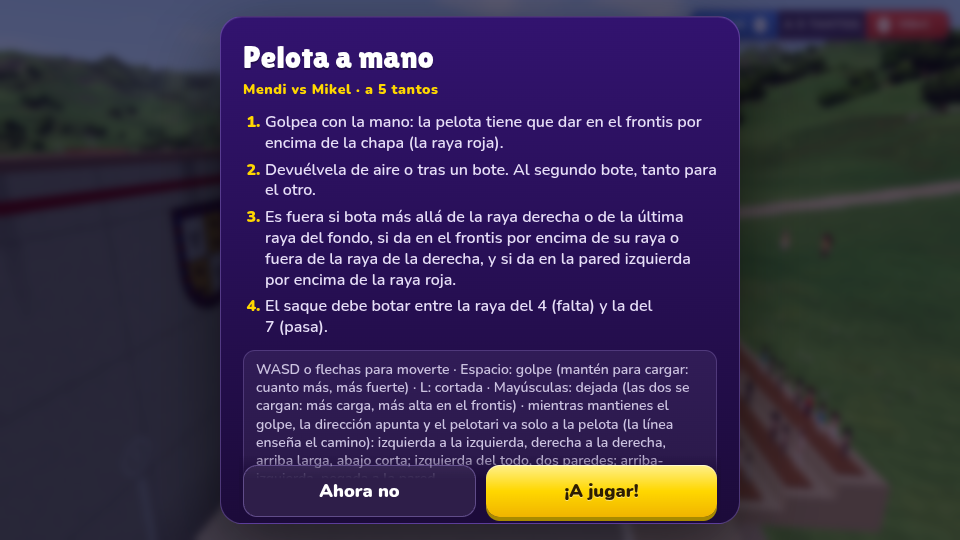
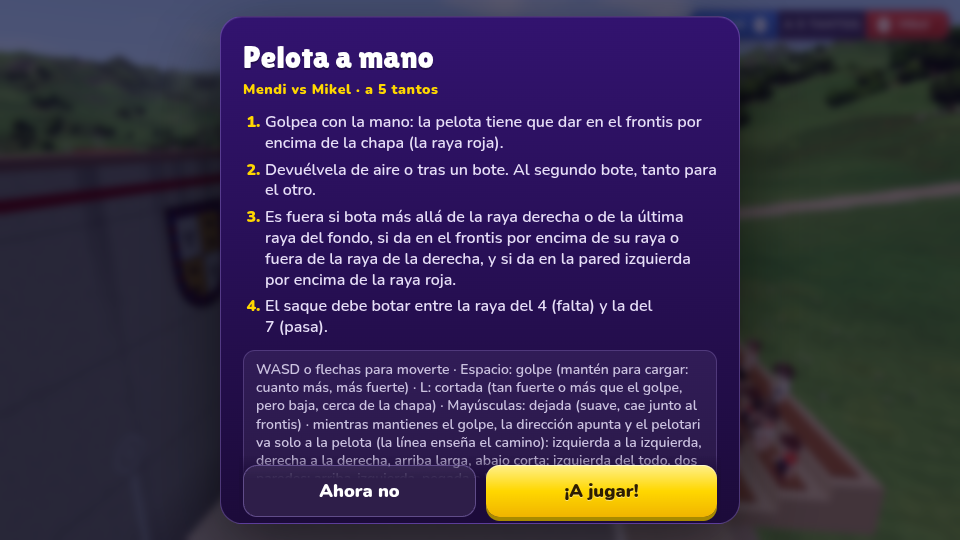
Pelota: público del frontón todo en 3D con textura y un solo estilo, sin haz de luz; cortada a dos paredes; el rival llega a veces a la dejada según el nivel
Claude-Session: https://claude.ai/code/session_01LP3syHb7415C8M5w3wgHaS

Changed region(s): [[0.25, 0.7111, 0.75, 0.8593], [0.7812, 0.7111, 0.8438, 0.8593], [0.8438, 0.7704, 0.875, 0.8]]

diff --git a/src/game/fronton.js b/src/game/fronton.js
@@ -10,7 +10,6 @@ import { clearGrass, clearTrees } from '../world/nature.js';
 import { isEU } from '../i18n.js';
 import { profile } from './profile.js';
 import { QUALITY } from '../util/quality.js';
-import { Crowd } from './crowd.js';
 import { crowd3d } from '../actors/crowd3d.js';
 import { shieldSpec, drawShield } from '../world/heraldry.js';
 import { drawOfficial, officialHeight } from '../world/armas.js';
@@ -153,7 +152,7 @@ export function playPelota(G, fronton, rival, { mode = 'match', target = 5, leve
   return new Promise(res => {
     const P = G.player, rig0 = P.rig, home = { x: rival.pos.x, z: rival.pos.z, h: rival.heading };
     let seated = null, seatedZ = 0, cheerT = 0;
-    let rig = rig0, pel = null, red = null, crowd = null, bf = null, bfWas = false, ended = false; const hidden = [], hiddenR = [];
+    let rig = rig0, pel = null, red = null, bf = null, bfWas = false, ended = false; const hidden = [], hiddenR = [];
     // si algo falla al montar el partido, de vuelta al pueblo con todo como estaba (nunca congelado en la cancha)
     const fail = (e) => {
       console.warn('frontón', e);
@@ -182,16 +181,18 @@ export function playPelota(G, fronton, rival, { mode = 'match', target = 5, leve
     G.pelotaRig = rig;
     rival.frozen = true; rival.talking = 0;
     const flags = { you: {}, rival: {} };
-    // vecinos que se acercan a la grada a ver el partido
-    crowd = G.pelotaCrowd = G.scene ? new Crowd(G, fronton, 7 + ((Math.random() * 4) | 0)) : null;
+    // (el público es uno solo, el de la grada en 3D: antes llegaban además vecinos de otro estilo y se mezclaban dos diseños)
+    if (G.beacon) G.beacon.off = true;   // sin el haz de luz del objetivo sobre el frontón
     // y el público sentado en los bancos de la grada (una sola llamada de dibujo; se va al acabar)
     // (los más cercanos a la cámara, en 3D; con pañuelos que se agitan en cada tanto)
-    try { const C = fronton.court, sp = (C?.standSpots || []).filter(() => Math.random() < (QUALITY === 'low' ? 0.72 : 0.85));
+    // todo el público en 3D con su textura (sin láminas planas a lo lejos): cuántos, según la calidad, repartidos por la grada
+    try { const C = fronton.court, all = C?.standSpots || [], cap = QUALITY === 'low' ? 44 : QUALITY === 'mid' ? 64 : 90;
+      const sp = all.filter(() => Math.random() < Math.min(1, cap / Math.max(1, all.length)));
       // (en coordenadas del mundo: el público 3D elige a los que tiene cerca de la cámara)
       C.group.updateMatrixWorld(true); const yaw = new THREE.Euler().setFromQuaternion(C.group.getWorldQuaternion(new THREE.Quaternion()), 'YXZ').y;
       const wsp = sp.map(([x, y, z, ry]) => { const v = C.group.localToWorld(new THREE.Vector3(x, y, z)); return [v.x, v.y, v.z, ry + yaw]; });
       if (wsp.length) seatedZ = wsp.reduce((a, q) => a + q[2], 0) / wsp.length;
-      if (wsp.length && G.scene) { seated = crowd3d(wsp, 'pelota', 1.36, { sit: true }); G.scene.add(seated); } } catch (e) { console.warn('público del frontón', e); }
+      if (wsp.length && G.scene) { seated = crowd3d(wsp, 'pelota', 1.36, { sit: true, all3d: true }); G.scene.add(seated); } } catch (e) { console.warn('público del frontón', e); }
     const once = (who, key, on, fn) => { if (on && !flags[who][key]) { flags[who][key] = true; fn(); } else if (!on) flags[who][key] = false; };
     const stYou = { v: null }, stRival = { v: null };
     armSwing(rig.char, () => stYou.v, { windOnly: !!pel }); armSwing(red ? red.char : rival.glb, () => stRival.v, { windOnly: !!red });
@@ -216,20 +217,19 @@ export function playPelota(G, fronton, rival, { mode = 'match', target = 5, leve
       you: { obj: P.obj, name: profile().name || (isEU() ? 'Zu' : 'Tú'), animate: animYou },
       rival: { obj: rival.obj, name: rivalName || String(rival.name).split(',')[0], animate: animRival },
       onEnd: (r) => done(r), onExit: (r) => done(r),
-      onEvent: (e) => { if (e.type === 'call' && crowd) (e.final ? crowd.ovation?.() : crowd.point(e.winner === 'you')); if (e.type === 'call' && seated) { seated.cheer(true); cheerT = e.final ? 4.6 : 1.6; } },
+      onEvent: (e) => { if (e.type === 'call' && seated) { seated.cheer(true); cheerT = e.final ? 4.6 : 1.6; } },
     }); } catch (e) { console.warn('frontón', e); done({ win: false, error: true }); return; }   // (si no se monta, de vuelta al pueblo)
-    G.pelotaTick = (dt) => { match.update(dt); crowd?.update(dt); if (seated) { seated.tick(match.t || 0, cheerT > 0 ? 1 : 0.15, seatedZ, G.camera); if (cheerT > 0 && (cheerT -= dt) <= 0) seated.cheer(false); } };
+    G.pelotaTick = (dt) => { match.update(dt); if (seated) { seated.tick(match.t || 0, cheerT > 0 ? 1 : 0.15, seatedZ, G.camera); if (cheerT > 0 && (cheerT -= dt) <= 0) seated.cheer(false); } };
     })().catch(fail);
     function done(r) {
       if (ended) return; ended = true;
-      // el público aplaude el final y vuelve al pueblo (sigue moviéndose con el juego hasta que se va)
-      if (crowd) { crowd.end(!!r.win); G.crowds = (G.crowds || []).filter(c => !c.disposed).concat(crowd); }
       G.pelotaTick = null; G.pelotaMatch = null; G.pelotaRig = null;
       if (seated) { seated.parent?.remove(seated); seated.dispose(); seated = null; }
       if (rig.char) rig.char.post = null; if (rival.glb) rival.glb.post = null;
       rig.setStance?.(null);
       if (pel) { P.obj.remove(pel.char.root); pel.dispose(); for (const c of hidden) P.obj.add(c); }
       if (bf) bf.visible = bfWas;
+      if (G.beacon) G.beacon.off = false;
       if (red) { red.char.post = null; rival.obj.remove(red.char.root); red.dispose(); for (const c of hiddenR) rival.obj.add(c); }
       G.rt?.boost?.(false);
       P.rig = rig0; P.frozen = false; G.mode = 'play'; G.ui.hudVisible?.(true); G.perro?.release?.();

diff --git a/src/actors/crowd3d.js b/src/actors/crowd3d.js
@@ -64,8 +64,17 @@ function bakeMesh(o) {
   }
   const g = new THREE.BufferGeometry();
   g.setAttribute('position', new THREE.BufferAttribute(pos, 3)); g.setAttribute('normal', new THREE.BufferAttribute(nor, 3)); g.setAttribute('color', new THREE.BufferAttribute(col, 3));
+  if (UV) g.setAttribute('uv', UV.clone());
   g.setIndex(geo.index ? geo.index.clone() : [...Array(n).keys()]);
   return g;
+}
+// con textura (el público del frontón, todo en 3D): la piel, la cara y la ropa con el mismo detalle que los jugadores,
+// y la misma luz propia que los personajes de Meshy. Una por figura (cada una trae su textura)
+const texMats = new Map();
+function texMat(map) {
+  if (!map) return MAT;
+  if (!texMats.has(map)) { const m = new THREE.MeshStandardMaterial({ map, roughness: 0.82, emissive: 0xffffff, emissiveMap: map, emissiveIntensity: 0.38 }); texMats.set(map, m); }
+  return texMats.get(map);
 }
 const shown = (o) => { for (let p = o; p; p = p.parent) if (!p.visible) return false; return true; };
 
@@ -83,8 +92,8 @@ function bakeSet(set, sit) {
         if (r === 1) c.playOnce?.('Celebrate', 1); c.update(r === 1 ? 0.45 : 0.3);
         if (r === 0 && sit) sitPose(c.root);
         c.root.rotation.y = (f % 3 - 1) * 0.12; c.root.updateMatrixWorld(true);
-        const parts = []; c.root.traverse(o => { if (o.isMesh && !o.userData.outline && shown(o)) parts.push(bakeMesh(o)); });
-        const g = mergeGeometries(parts); parts.forEach(p => p.dispose()); g.computeBoundingSphere();
+        const parts = []; let map = null; c.root.traverse(o => { if (o.isMesh && !o.userData.outline && shown(o)) { parts.push(bakeMesh(o)); map ||= [].concat(o.material)[0].map || null; } });
+        const g = mergeGeometries(parts); parts.forEach(p => p.dispose()); g.computeBoundingSphere(); g.userData.map = map;
         poses.push(g); c.dispose();
       }
       out.push(poses);
@@ -99,7 +108,7 @@ function bakeSet(set, sit) {
  * Público: spots = [[x, y, z, ry], …] (y = pies). Devuelve un grupo con .tick(t, ánimo, zFoco, cámara) y .cheer(on),
  * igual que las láminas: de cerca, figuras 3D (que saltan, saludan y celebran); de lejos, láminas.
  */
-export function crowd3d(spots, set = 'futbol', height = 1.45, { sit = false } = {}) {
+export function crowd3d(spots, set = 'futbol', height = 1.45, { sit = false, all3d = false } = {}) {
   const n = spots.length, figs = new Uint8Array(n);
   for (let i = 0; i < n; i++) figs[i] = Math.floor(Math.random() * FIGS);
   const group = new THREE.Group(), sprites = crowdMesh(spots, set, height, figs, sit);
@@ -109,7 +118,9 @@ export function crowd3d(spots, set = 'futbol', height = 1.45, { sit = false } = 
   // la ola (en el estadio): cada cierto rato da la vuelta a la grada; quien está en la cresta se levanta y alza los brazos
   const olaOn = set === 'futbol'; let olaA = -99;
   // (los personajes nuevos tienen más detalle: en el móvil, menos en 3D a la vez)
-  const Q = QUALITY, K = Q === 'low' ? 18 : Q === 'mid' ? 40 : 80, R = Q === 'low' ? 13 : Q === 'mid' ? 20 : 28;
+  // (all3d: todos en 3D con su textura y sin láminas; quien llama limita cuántos son)
+  const Q = QUALITY, K = all3d ? n : Q === 'low' ? 18 : Q === 'mid' ? 40 : 80, R = all3d ? 1e4 : Q === 'low' ? 13 : Q === 'mid' ? 20 : 28;
+  if (all3d) sprites.visible = false;
   const TT = sprites.geometry.attributes.aTint.array, tc = new THREE.Color();   // (de cerca, el mismo tono que en la lámina)
   const A = sprites.geometry.attributes.aAnim.array, C = sprites.geometry.attributes.aCell.array, IM = sprites.instanceMatrix, orig = IM.array.slice();
   const near = new Int32Array(K); let nNear = 0, meshes = null, cheer = 0, pick = 0;
@@ -117,7 +128,7 @@ export function crowd3d(spots, set = 'futbol', height = 1.45, { sit = false } = 
   const rot = new Float32Array(n), sc = new Float32Array(n);
   for (let i = 0; i < n; i++) { rot[i] = spots[i][3] + (Math.random() - 0.5) * 0.3; sc[i] = (0.92 + Math.random() * 0.16) * height / 1.5; }
   bakeSet(set, sit).then(G => {
-    meshes = G.map(poses => poses.map(g => { const im = new THREE.InstancedMesh(g, MAT, K); im.setColorAt(0, new THREE.Color(1, 1, 1)); im.count = 0; im.frustumCulled = false; group.add(im); return im; }));
+    meshes = G.map(poses => poses.map(g => { const im = new THREE.InstancedMesh(g, all3d ? texMat(g.userData.map) : MAT, K); im.setColorAt(0, new THREE.Color(1, 1, 1)); im.count = 0; im.frustumCulled = false; group.add(im); return im; }));
   }).catch(err => console.warn('público 3D', err));
   const cam = new THREE.Vector3(), frustum = new THREE.Frustum(), pm = new THREE.Matrix4(), sph = new THREE.Sphere(new THREE.Vector3(), 1.2);
   // elige los K espectadores más cercanos a la cámara (dentro de R) que se ven, para dibujarlos en 3D (los que quedan
@@ -157,7 +168,8 @@ export function crowd3d(spots, set = 'futbol', height = 1.45, { sit = false } = 
       const pose = Math.max((C[i * 2 + 1] + cheer) % 2, wave), im = meshes[figs[i] % meshes.length][pose];
       const jump = A[i * 3] * ex * Math.abs(Math.sin(t * 5.5 + A[i * 3 + 1])) + ola * 0.5;
       m4.compose(v.set(s[0], s[1] + jump, s[2]), q.setFromEuler(e.set(0, rot[i], 0)), s3.setScalar(sc[i]));
-      im.setColorAt(im.count, tc.setRGB(TT[i * 3], TT[i * 3 + 1], TT[i * 3 + 2])); im.setMatrixAt(im.count++, m4);
+      if (all3d) { const l = 0.9 + 0.1 * Math.abs(Math.sin(i * 12.9898)); tc.setRGB(l, l, l); } else tc.setRGB(TT[i * 3], TT[i * 3 + 1], TT[i * 3 + 2]);
+      im.setColorAt(im.count, tc); im.setMatrixAt(im.count++, m4);
     }
     for (const fig of meshes) for (const im of fig) if (im.count) { im.instanceMatrix.needsUpdate = true; if (im.instanceColor) im.instanceColor.needsUpdate = true; }
   };

diff --git a/src/pelota/game.js b/src/pelota/game.js
@@ -86,7 +86,7 @@ export class PelotaGame {
       if (R.serve && R.bounces < 1) return false;           // el saque no se puede devolver de aire
     } else return false;
     const d = Math.hypot(b.x - pl.x, b.z - pl.z);
-    return d < reach && b.y > 0.15 && b.y < 2.2;
+    return d < reach && b.y > 0.1 && b.y < 2.2;   // (una dejada bota muy baja: se recoge casi a ras de suelo)
   }
   quality(who, swingElapsed) {
     const b = this.ball.p, pl = this.players[who];
@@ -128,7 +128,14 @@ export class PelotaGame {
       const speed = 27 + q * 5 + pow * 12;
       const tx = clamp(aim.x * 2.8 + gauss(rnd) * err * 1.1, -4.2, 4.6);
       const ty = cutHeight(pow, aim.y) + gauss(rnd) * err * 0.3;
-      v = aimVelocity(p, tx, ty, Math.max(0.2, p.z / speed));
+      // a dos paredes: con el joystick bien a la izquierda, pega primero en la pared izquierda y después bajo en el
+      // frontis, y sale cruzada hacia la derecha, rasa y rápida (como la dos paredes del golpe, pero cortada)
+      if (rawX < -0.72 && !serve) {
+        const ang = clamp((-rawX - 0.72) / 0.22, 0, 1), fz = clamp(0.6 - ang * 0.4 + gauss(rnd) * err * 0.06, 0.15, 0.8);
+        const r = solveTwoWalls(p, speed, clamp(9 + pow * 5 + aim.y, 7, 15), [fz, fz - 0.08, fz + 0.08, fz + 0.16], { low: 5, maxFront: ty + 0.9 });
+        if (r) { v = r.v; sub = 'cortDos'; }
+      }
+      if (!v) v = aimVelocity(p, tx, ty, Math.max(0.2, p.z / speed));
     } else {
       // el joystick manda: de lado (x) dónde cae a lo ancho y de arriba abajo (y) lo largo; el error solo depende de lo
       // bien que se golpee (antes cada golpe tenía mucho azar y no se notaba hacia dónde se apuntaba)
@@ -264,7 +271,8 @@ export class PelotaGame {
       const bounces = R.front ? R.bounces + s.bounces : s.bounces;
       if (bounces > 1) break;
       if (R.serve && bounces < 1) continue;
-      if (s.y < 0.35 || s.y > 1.5 || s.x > COURT.W / 2 + 1.5 || s.z > COURT.L + 1.5 || s.z < 1.5) continue;
+      // (tras el bote de una dejada la pelota apenas sube un palmo: antes se pedían 35 cm y no había dónde ir a por ella)
+      if (s.y < 0.14 || s.y > 1.5 || s.x > COURT.W / 2 + 1.5 || s.z > COURT.L + 1.5 || s.z < 1.5) continue;
       const need = Math.hypot(s.x - pl.x, s.z - pl.z) / speed + react, have = s.t / this.tempo;
       const c = { x: s.x, z: s.z + 0.25, t: have };
       if (need <= have) return c;
@@ -306,10 +314,11 @@ export class PelotaGame {
   }
   driveAI(who, dt) {
     const pl = this.players[who], lv = who === 'rival' ? this.lvl.rival : { speed: 5.4, react: 0.25, error: 0.12 };
-    let tx = pl.x, tz = pl.z;
+    let tx = pl.x, tz = pl.z, sprint = 1;
     if (this.phase === 'rally' && this.rally.turn === who) {
-      const c = this.interceptFor(who, lv.speed, lv.react);
-      if (c) { tx = c.x; tz = c.z; }
+      // a una pelota corta (la dejada) se sale en arrancada, como un pelotari de verdad: más rápido que en el peloteo
+      const dash = lv.dash ?? 1, c = this.interceptFor(who, lv.speed * dash, lv.react);
+      if (c) { tx = c.x; tz = c.z; if (c.z < 8) sprint = dash; }
       if (this.hittable(who)) {
         const bad = this.rnd() < (this.mode === 'rally' && who === 'rival' ? 0.03 : lv.error);
         const q = bad ? 0.1 + this.rnd() * 0.2 : 0.55 + this.rnd() * 0.4;
@@ -325,7 +334,7 @@ export class PelotaGame {
         const s = this.aiShot(who); return this.strike(who, 0.6 + this.rnd() * 0.35, s.aim, false);
       }
     }
-    this.moveTo(pl, tx, tz, lv.speed, dt);
+    this.moveTo(pl, tx, tz, lv.speed * sprint, dt);
   }
   moveTo(pl, tx, tz, speed, dt) {
     const dx = tx - pl.x, dz = tz - pl.z, d = Math.hypot(dx, dz);

diff --git a/src/pelota/rules.js b/src/pelota/rules.js
@@ -33,9 +33,9 @@ export const PHYS = {
 
 // Niveles: ritmo del partido (cámara lenta), ayuda al jugador y fuerza del rival
 export const LEVELS = {
-  facil: { tempo: 0.5, reach: 1.85, assist: 1.8, rival: { speed: 4.8, react: 0.36, error: 0.12, smart: 0.35 } },
-  normal: { tempo: 0.58, reach: 1.65, assist: 1.0, rival: { speed: 5.5, react: 0.25, error: 0.065, smart: 0.6 } },
-  dificil: { tempo: 0.68, reach: 1.4, assist: 0.35, rival: { speed: 6.2, react: 0.17, error: 0.03, smart: 0.85 } },
+  facil: { tempo: 0.5, reach: 1.85, assist: 1.8, rival: { speed: 4.8, react: 0.36, error: 0.12, smart: 0.35, dash: 0.93 } },
+  normal: { tempo: 0.58, reach: 1.65, assist: 1.0, rival: { speed: 5.5, react: 0.25, error: 0.065, smart: 0.6, dash: 1.0 } },
+  dificil: { tempo: 0.68, reach: 1.4, assist: 0.35, rival: { speed: 6.2, react: 0.17, error: 0.03, smart: 0.85, dash: 1.12 } },
 };
 
 const EU_NUM = ['hutsa', 'bat', 'bi', 'hiru', 'lau', 'bost', 'sei', 'zazpi', 'zortzi', 'bederatzi', 'hamar', 'hamaika', 'hamabi', 'hamahiru', 'hamalau', 'hamabost', 'hamasei', 'hamazazpi', 'hamazortzi', 'hemeretzi', 'hogei', 'hogeita bat', 'hogeita bi'];
@@ -85,7 +85,7 @@ export const TEXT = {
       tanto: ['¡Tanto!', ''],
     },
     quality: { perfect: '¡Perfecto!', good: '¡Bien!', ok: 'Justo', late: 'Tarde', whiff: '¡Al aire!' },
-    shots: { dejada: 'Dejada', cortada: 'Cortada', pared: 'A la pared', dosparedes: 'Dos paredes', dpCorta: 'Dos paredes corta', dpCruzada: 'Dos paredes cruzada', dpLarga: 'Dos paredes larga', dpPegada: 'Dos paredes pegada', ancho: 'Al ancho', largo: 'Largo', normal: '' },
+    shots: { dejada: 'Dejada', cortada: 'Cortada', pared: 'A la pared', dosparedes: 'Dos paredes', dpCorta: 'Dos paredes corta', dpCruzada: 'Dos paredes cruzada', dpLarga: 'Dos paredes larga', dpPegada: 'Dos paredes pegada', cortDos: 'Cortada a dos paredes', ancho: 'Al ancho', largo: 'Largo', normal: '' },
     pointYou: 'Tanto para ti', pointRival: (n) => `Tanto para ${n}`,
     finalCall: '¡Tanto y partido!', finalSub: 'Todo el frontón en pie aplaude.', matchPoint: 'Tanto de partido', matchPointSub: 'El que gane este tanto, gana el partido.',
     serveYou: 'Sacas tú', serveRival: (n) => `Saca ${n}`,
@@ -139,7 +139,7 @@ export const TEXT = {
       tanto: ['Tantoa!', ''],
     },
     quality: { perfect: 'Primeran!', good: 'Ondo!', ok: 'Justu', late: 'Berandu', whiff: 'Airera!' },
-    shots: { dejada: 'Dejada', cortada: 'Cortada', pared: 'Paretara', dosparedes: 'Bi pareta', dpCorta: 'Bi pareta motza', dpCruzada: 'Bi pareta zeharka', dpLarga: 'Bi pareta luzea', dpPegada: 'Bi pareta itsatsia', ancho: 'Zabalera', largo: 'Luzea', normal: '' },
+    shots: { dejada: 'Dejada', cortada: 'Cortada', pared: 'Paretara', dosparedes: 'Bi pareta', dpCorta: 'Bi pareta motza', dpCruzada: 'Bi pareta zeharka', dpLarga: 'Bi pareta luzea', dpPegada: 'Bi pareta itsatsia', cortDos: 'Bi paretako cortada', ancho: 'Zabalera', largo: 'Luzea', normal: '' },
     pointYou: 'Tantoa zuretzat', pointRival: (n) => `Tantoa ${n}rentzat`,
     finalCall: 'Tantoa eta partida!', finalSub: 'Pilotaleku osoa zutik, txaloka.', matchPoint: 'Partidarako tantoa', matchPointSub: 'Tanto hau irabazten duenak partida irabazten du.',
     serveYou: 'Zuk ateratzen duzu', serveRival: (n) => `${n}k ateratzen du`,

diff --git a/src/pelota/physics.js b/src/pelota/physics.js
@@ -77,7 +77,10 @@ export function aimVelocityTo(p, t, T) {
 // no sale ninguno (muy pegado a la pared o muy cerca del frontis)
 // fzs: dónde se busca el punto de la pared, como fracción de la distancia al frontis (poco: la pared pronto y sale más
 // cruzada; mucho: la pared cerca del frontis y sale más recta)
-export function solveTwoWalls(p, speed, landZ = 17, fzs = [0.28, 0.4, 0.52, 0.64]) {
+// opts.low: cuánto se premia que pegue bajo en el frontis (la cortada a dos paredes, rasa y cerca de la chapa);
+// opts.maxFront: lo más alto que puede pegar en el frontis
+export function solveTwoWalls(p, speed, landZ = 17, fzs = [0.28, 0.4, 0.52, 0.64], opts = {}) {
+  const low = opts.low || 0, maxFront = opts.maxFront ?? COURT.FRONT_TOP - 0.3;
   const xw = -COURT.W / 2 + R;
   let best = null, bs = -1e9;
   for (const fz of fzs) {
@@ -90,11 +93,11 @@ export function solveTwoWalls(p, speed, landZ = 17, fzs = [0.28, 0.4, 0.52, 0.64
       const ev = predict(b, 4).events;
       const iL = ev.findIndex(e => e.type === 'left'), iF = ev.findIndex(e => e.type === 'front');
       if (iL < 0 || iF < 0 || iL > iF) continue;
-      const F = ev[iF]; if (F.y < COURT.CHAPA + 0.35 || F.y > COURT.FRONT_TOP - 0.3) continue;
+      const F = ev[iF]; if (F.y < COURT.CHAPA + 0.35 || F.y > maxFront) continue;
       if (ev.some(e => e.type === 'floor' && e.t < F.t)) continue;
       const land = ev.find(e => e.type === 'floor' && e.n === 1);
       if (!land || land.x > COURT.W / 2 - 0.3 || land.z > COURT.L - 1 || land.z < 4) continue;
-      const score = -Math.abs(land.z - landZ) - Math.max(0, 1 - land.x) * 1.5;   // mejor cuanto más cruzado (hacia la derecha)
+      const score = -Math.abs(land.z - landZ) - Math.max(0, 1 - land.x) * 1.5 - low * (F.y - COURT.CHAPA);   // mejor cuanto más cruzado (hacia la derecha)
       if (score > bs) { bs = score; best = { v, land, wall: { x: xw, y: yw, z: zw } }; }
     }
   }

diff --git a/src/actors/crowdSprites.js b/src/actors/crowdSprites.js
@@ -11,7 +11,8 @@ const CW = 96, CH = 144;   // tamaño de cada dibujo en la lámina
 // conjuntos de público: qué personaje es cada figura
 export const SETS = {
   futbol: ['osasuna', 'osasuna', 'sanfermin', 'osasuna', 'pastor', 'osasuna', 'pelotari', 'osasuna_fuera'],
-  pelota: ['pastor', 'sanfermin', 'pelotari', 'osasuna', 'pastor', 'sanfermin', 'osasuna_fuera', 'pelotari'],
+  // (en el frontón, vecinos: de fiesta, del pueblo y de calle; sin pelotaris en la grada, que se confundían con los que juegan)
+  pelota: ['sanfermin', 'pastor', 'osasuna', 'sanfermin', 'osasuna_fuera', 'pastor', 'sanfermin', 'osasuna'],
   toros: ['sanfermin', 'sanfermin', 'pastor', 'sanfermin', 'sanfermin', 'pastor', 'sanfermin', 'pelotari'],
 };
 const cache = new Map();

diff --git a/src/fx.js b/src/fx.js
@@ -202,7 +202,8 @@ export class Beacon {
   update(elapsed, player) {
     const t = this.target;
     this.mat.uniforms.uTime.value = elapsed;
-    if (!t) { this.beam.visible = this.arrow.visible = false; return; }
+    // (off: durante un partido el haz del objetivo no se ve; era una columna de luz plana sobre el frontón)
+    if (!t || this.off) { this.beam.visible = this.arrow.visible = false; return; }
     const d = Math.hypot(t.x - player.pos.x, t.z - player.pos.z);
     const y = t.y ?? terrainHeight(t.x, t.z);
     this.beam.visible = d > 12;

diff --git a/src/game/townGame.js b/src/game/townGame.js
@@ -527,7 +527,6 @@ export class TownGame {
     if (this.mode === 'bino') this.updateBino(dt);
     if (this.mode === 'pelota' && this.pelotaTick) this.pelotaTick(dt);
     if (this.mode === 'futbol') this.futbol?.update(dt);
-    if (this.crowds?.length) { for (const c of this.crowds) c.update(dt); this.crowds = this.crowds.filter(c => !c.disposed); }
     this.updateNight(dt);
     for (const M of this.missions) if (M.type === 'summit' && M.step === 1 && !M.done) this.updateSummit(M, dt);
     this.checkArrival();

diff --git a/src/game/game.js b/src/game/game.js
@@ -268,7 +268,6 @@ export class Game {
     if (this.herd) this.updateHerding(dt);
     if (this.zarra) this.updateZarratrako(dt);
     if (this.mode === 'pelota' && this.pelotaTick) this.pelotaTick(dt);
-    if (this.crowds?.length) { for (const c of this.crowds) c.update(dt); this.crowds = this.crowds.filter(c => !c.disposed); }
     if (this.mode === 'dance') this.updateDance(dt);
     if (this.mode === 'bino') this.updateBino(dt);
     // detección de pasos por lugares
